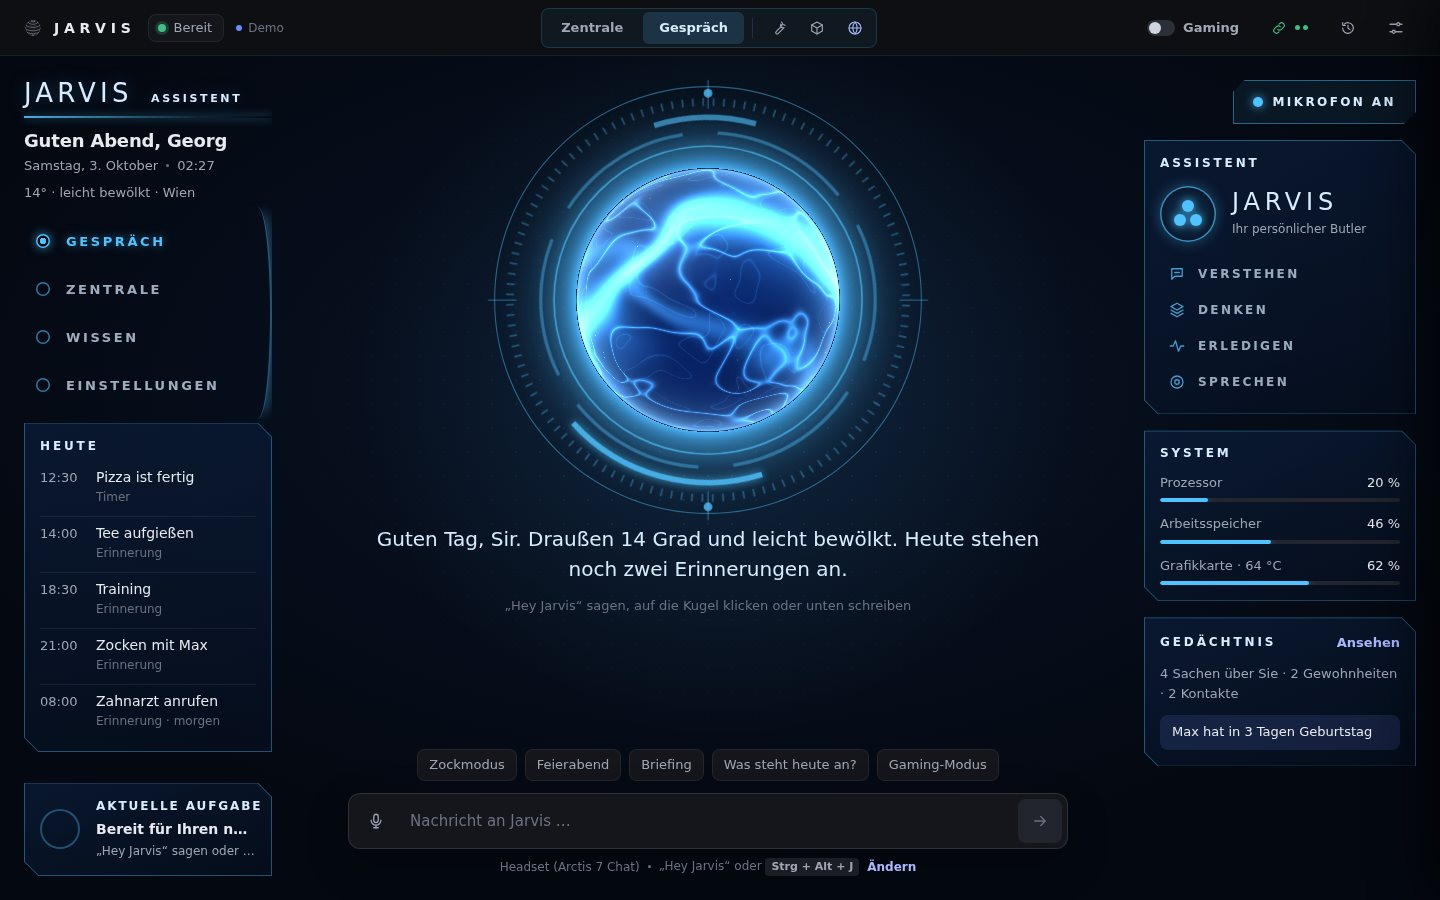
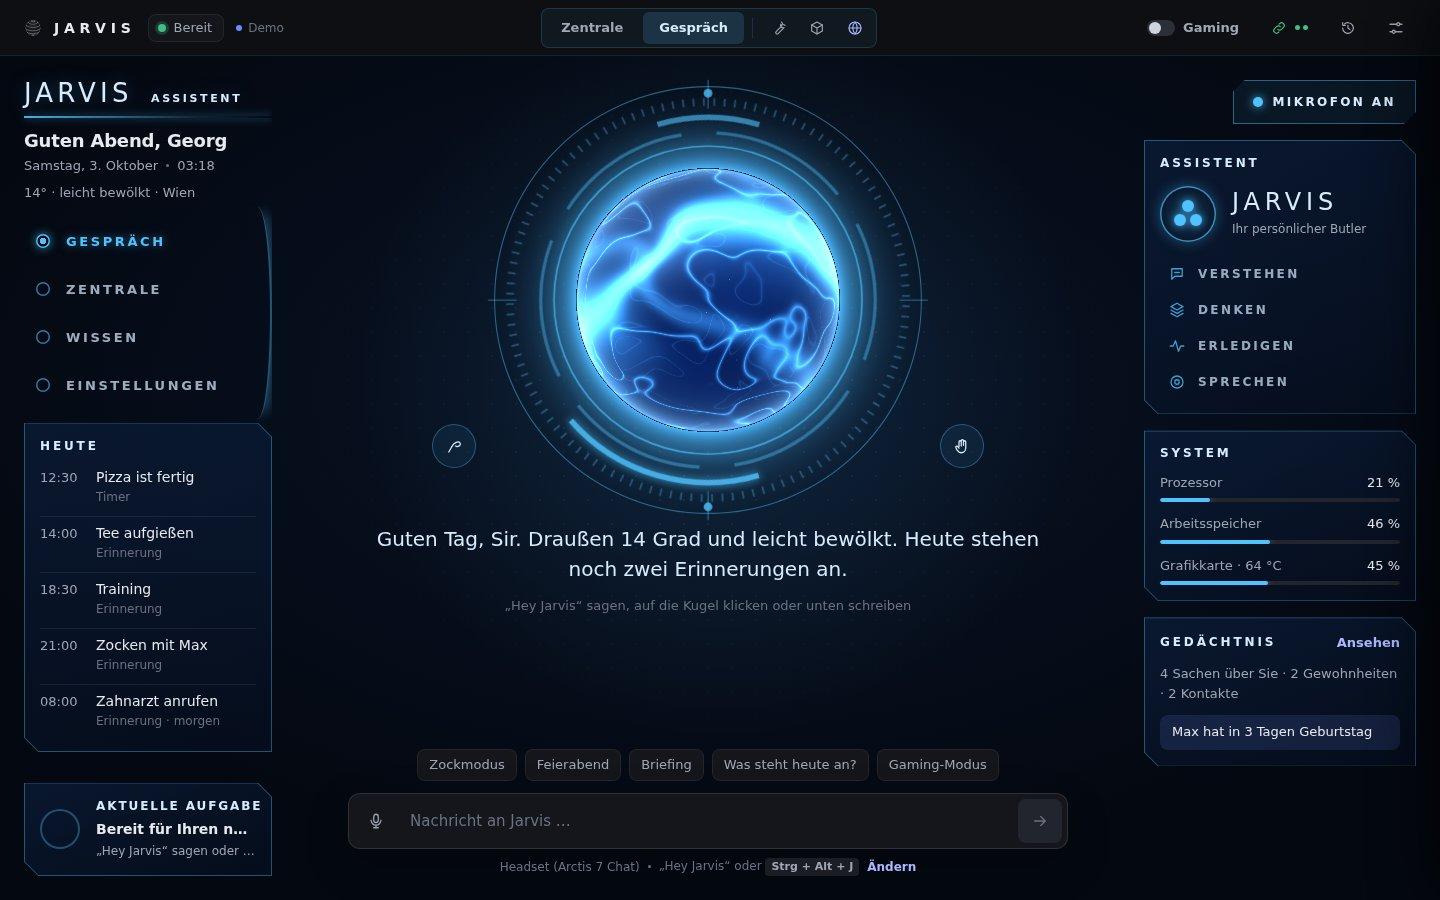
Zentrale: kein halb abgeschnittener Eintrag in der Aktivität, neue Bilder
Passt ein Eintrag nicht mehr ganz in die Karte, fällt er weg (auch beim
Vergrößern und Verkleinern des Fensters), statt nur mit der Uhrzeit
hervorzuschauen. Die Bilder in README und Anleitung zeigen den aktuellen
Stand (CPU, RAM, GPU in der Rechner-Karte).

Claude-Session: https://claude.ai/code/session_01SmtJ1qc8wnYu9sLYM9z56c

diff --git a/jarvis/gui/web/zentrale.js b/jarvis/gui/web/zentrale.js
@@ -209,6 +209,19 @@
         li.title = c.ok ? 'Erledigt' : 'Noch offen';
         el.chips.append(li);
       });
+      fitFeed();
+    }
+
+    // Was nicht ganz in die Karte passt, fällt weg, statt halb abgeschnitten dazustehen
+    function fitFeed() {
+      const items = Array.from(el.feed.children);
+      items.forEach((li) => { li.hidden = false; });
+      const bottom = el.feed.getBoundingClientRect().bottom + 1;
+      let full = false;
+      items.forEach((li, i) => {
+        if (!full && i > 0 && li.getBoundingClientRect().bottom > bottom) full = true;
+        if (full) li.hidden = true;
+      });
     }
 
     // ---------------------------------------------------------------- Kennzahlen
@@ -962,6 +975,16 @@
           layoutTimeline();
         });
       }).observe(el.timeline);
+    }
+    if (window.ResizeObserver && el.feed) {
+      let pending = 0;
+      new ResizeObserver(() => {
+        if (pending) return;
+        pending = requestAnimationFrame(() => {
+          pending = 0;
+          fitFeed();
+        });
+      }).observe(el.feed);
     }
     document.addEventListener('visibilitychange', syncVideo);
     setInterval(syncVideo, 4000);

diff --git a/jarvis/gui/web/zentrale.css b/jarvis/gui/web/zentrale.css
@@ -415,6 +415,10 @@ body[data-home="gespraech"] .top-live {
   list-style: none;
 }
 
+.zt-feed li[hidden] {
+  display: none;
+}
+
 .zt-feed li {
   position: relative;
   padding-left: 16px;
